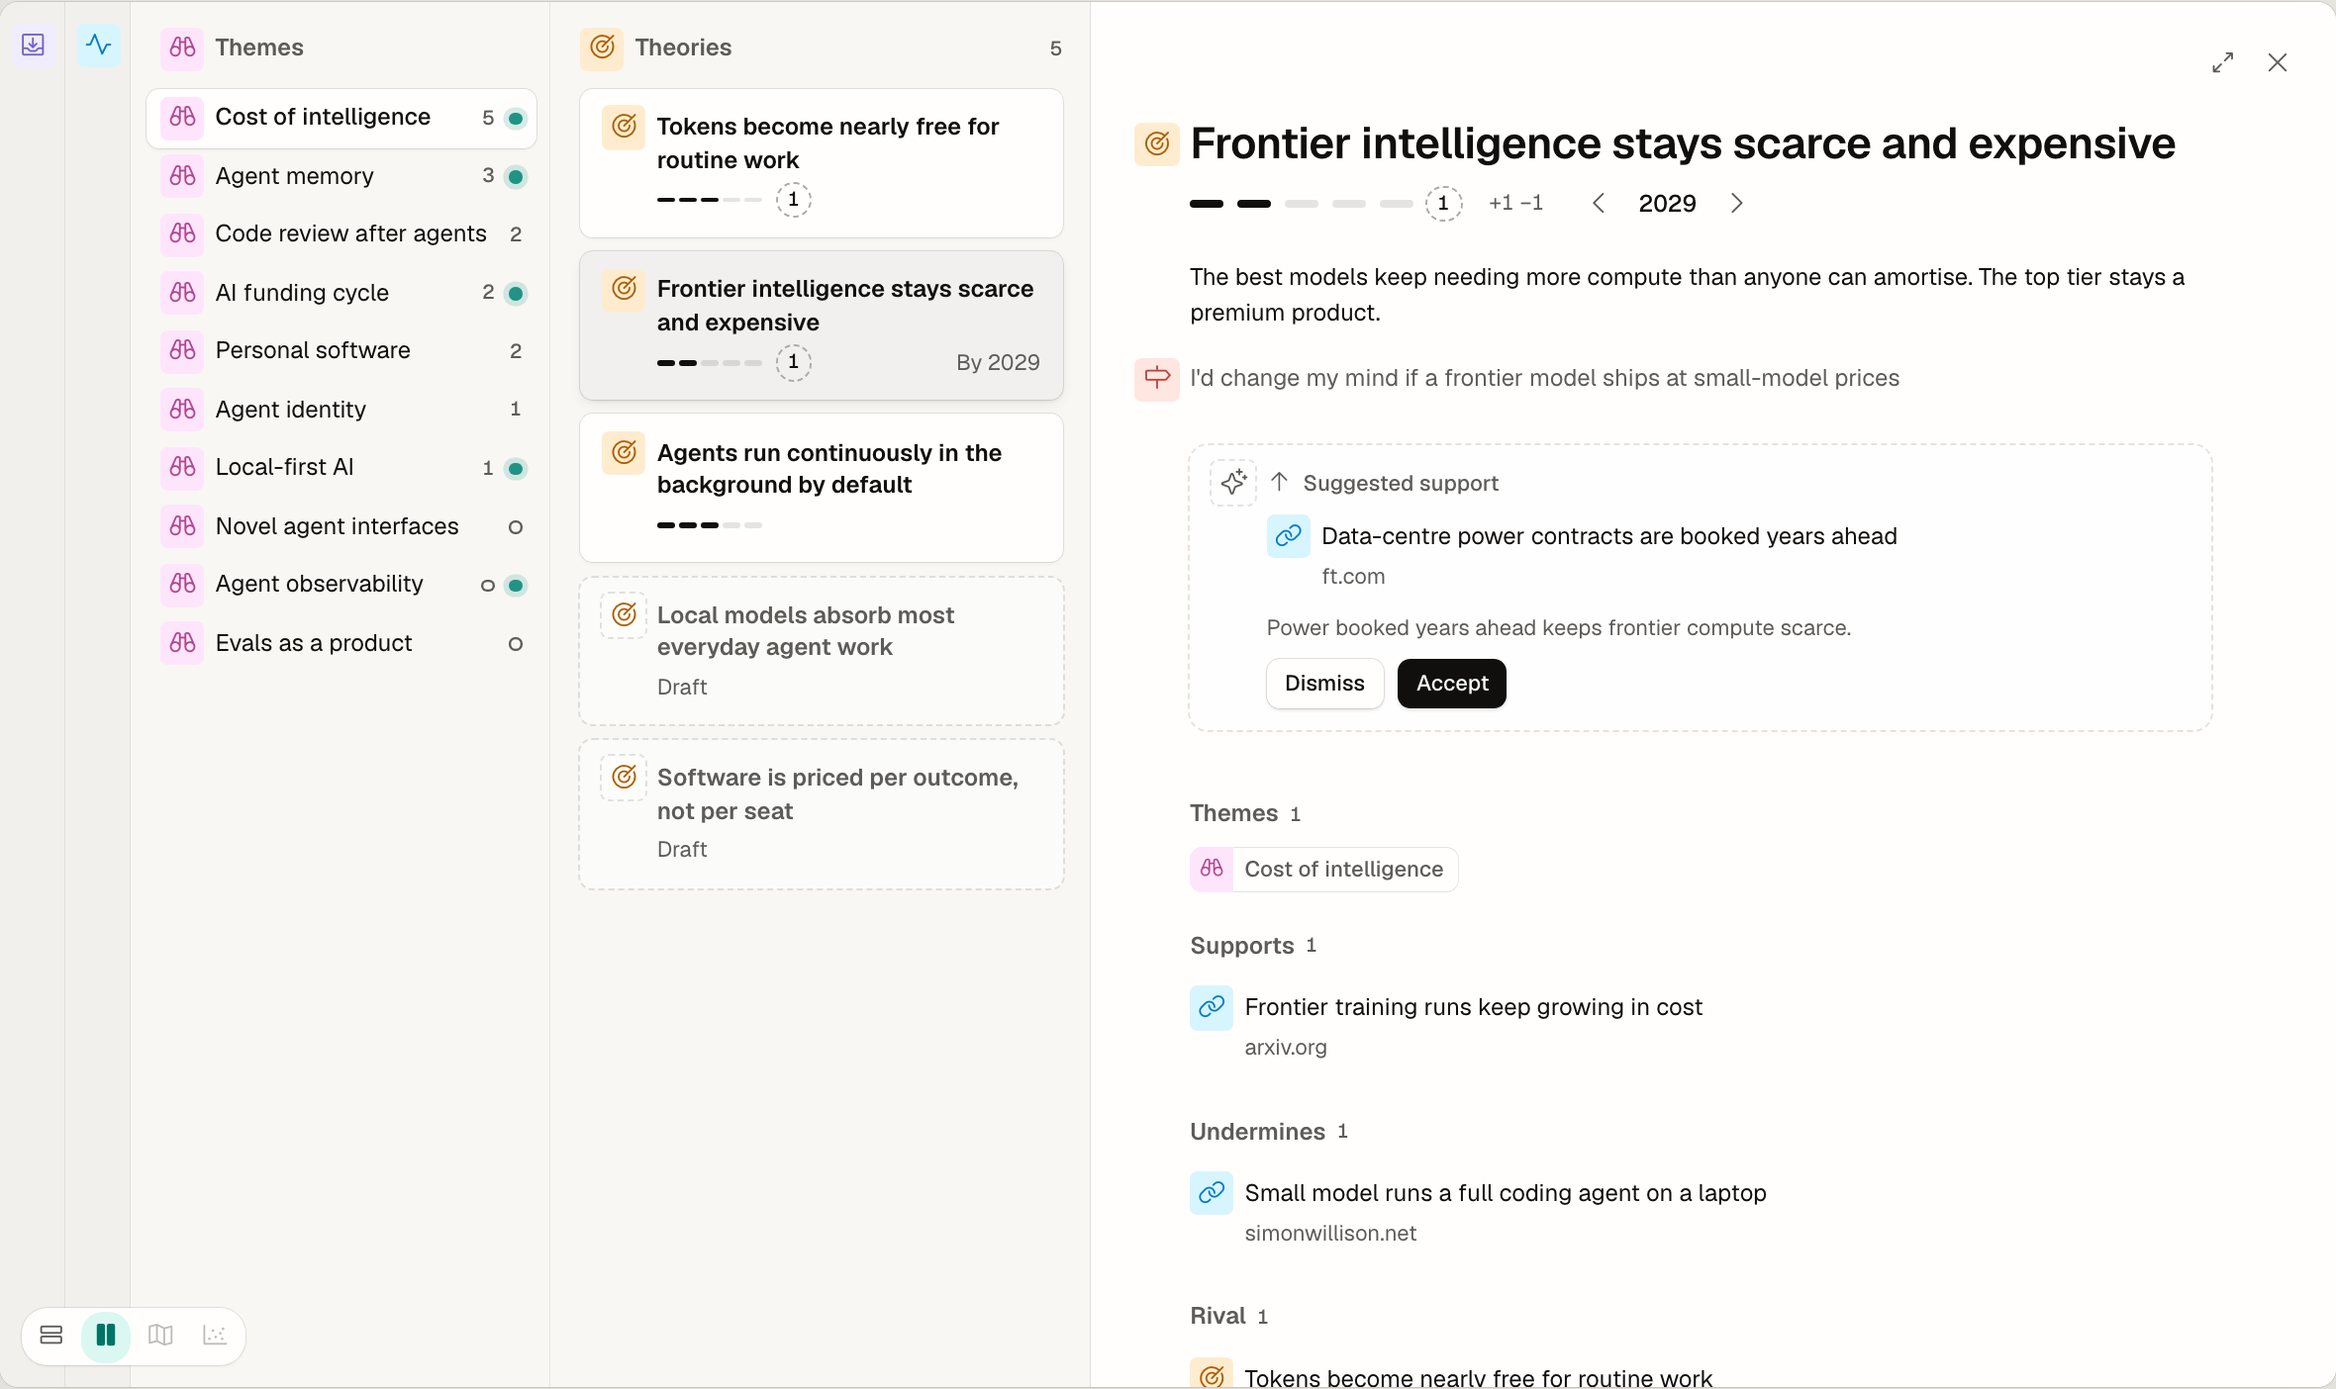
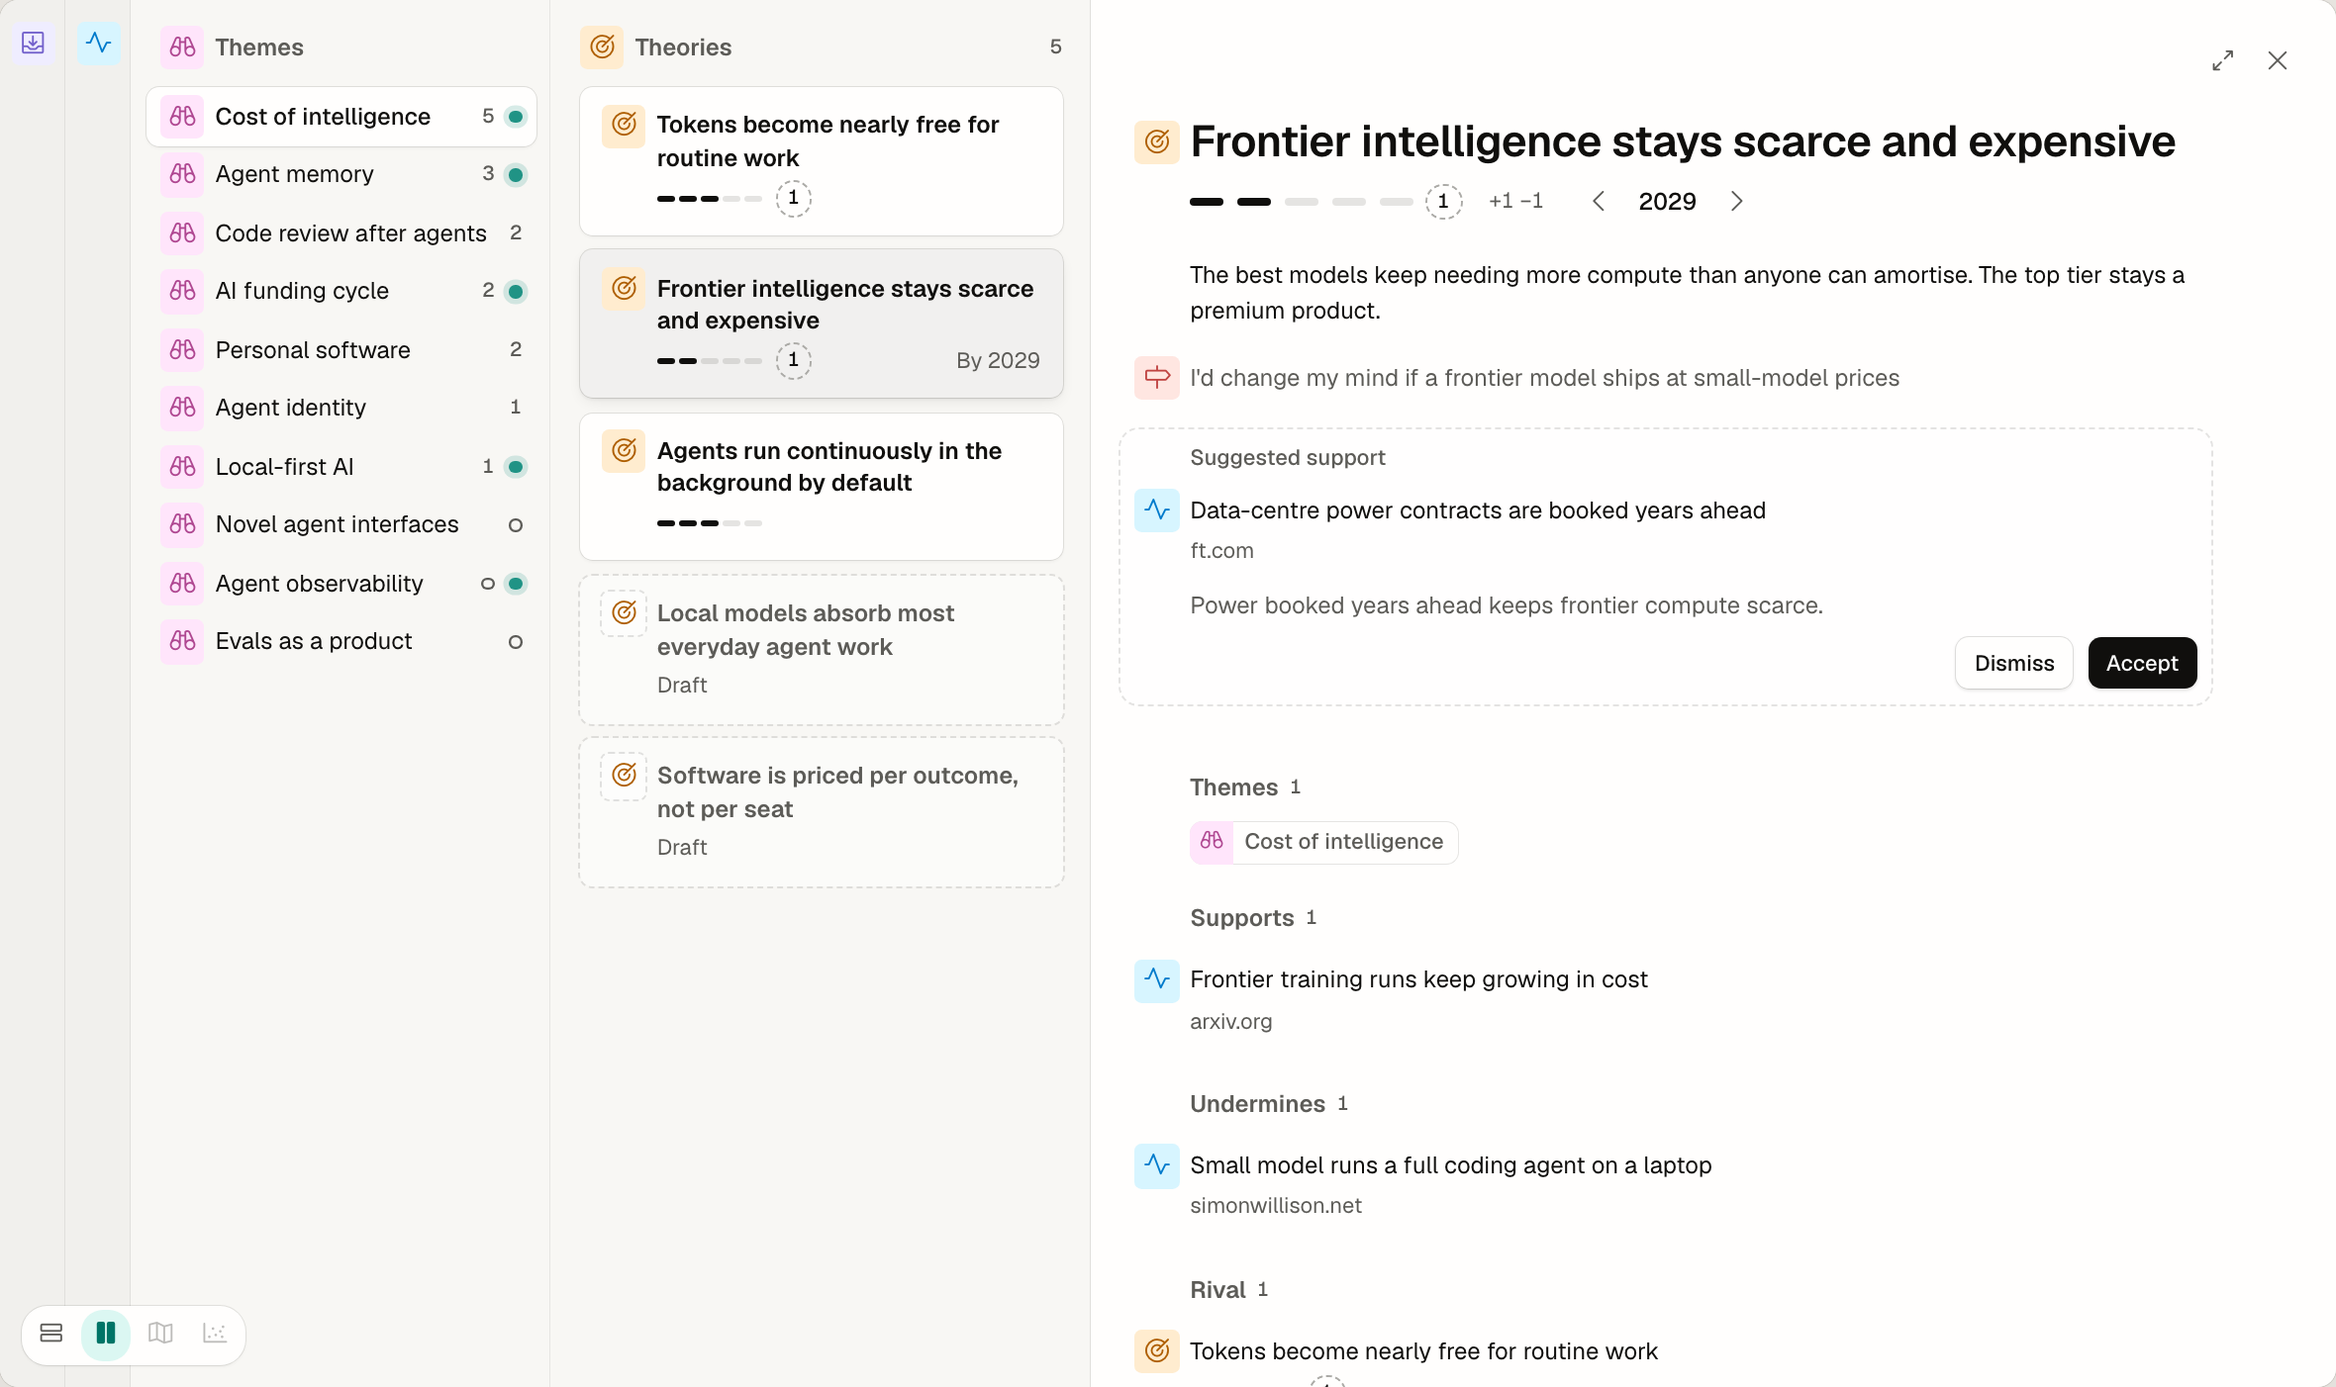
Grammar 06: one glyph column for attached objects

diff --git a/design/grammar/06-objects/objects.css b/design/grammar/06-objects/objects.css
@@ -13,6 +13,7 @@
 :is(.ob-scope, .ob-win) .g.sm { width: calc(var(--icon-label) + 4px); height: calc(var(--icon-label) + 4px); }
 :is(.ob-scope, .ob-win) .g.sm i { width: var(--icon-label); height: var(--icon-label); font-size: var(--icon-label); }
 :is(.ob-scope, .ob-win) .g[data-type="briefing"] { background: var(--tile-bg); color: var(--ink-2); }
+:root { --hang: calc(var(--tile) + var(--gap-icon)); }   /* the glyph column: tile + gap; text starts here */
 :is(.ob-scope, .ob-win) .g.draft { background: var(--draft-fill); outline: 1px dashed var(--hairline-strong); outline-offset: -1px; }
 
 /* Marks: one status slot, at the end of the key line */
@@ -111,17 +112,28 @@
 .ob-peek .ob-meta { margin-top: calc(var(--gap-item) * -1 + 2px); }
 .ob-pk-rel { display: grid; gap: 2px; padding-top: var(--gap-tight); }
 .ob-pk-rel > .ob-label { height: var(--control-sm); }
-.ob-pk-rel .ob-row { margin-inline: calc(var(--inset-row) * -1); }
+.ob-pk-rel .ob-row { margin-left: calc((var(--hang) + var(--inset-row)) * -1); margin-right: calc(var(--inset-row) * -1); }
 .ob-more { padding-top: 2px; font-size: var(--fs-label); color: var(--ink-2); }
 .ob-pk-foot { display: flex; justify-content: flex-end; }
 /* Attached objects, one line in a peek */
-/* Same 24 tile as every other row in the peek; text at body size beside it */
-.ob-attach { display: grid; grid-template-columns: var(--tile) minmax(0, 1fr); align-items: start; gap: var(--gap-icon); font-size: var(--fs-body); line-height: var(--lh-ui); color: var(--ink-2); }
+/* Attached lines hang their tile in the glyph column, like every row; text on the text edge */
+.ob-attach { margin-left: calc(var(--hang) * -1); display: grid; grid-template-columns: var(--tile) minmax(0, 1fr); align-items: start; gap: var(--gap-icon); font-size: var(--fs-body); line-height: var(--lh-ui); color: var(--ink-2); }
 .ob-attach > .g { margin-top: calc((var(--line-ui) - var(--tile)) / 2); }
 .ob-attach > span { display: -webkit-box; -webkit-box-orient: vertical; -webkit-line-clamp: 2; overflow: hidden; }
 .ob-attach b { font-weight: 500; color: var(--ink); }
 .ob-attach.tripped > span { color: var(--neg); }
 .ob-attach.tripped b { color: var(--neg); }
+.ob-attach.lg > .g { margin-top: calc((var(--line-prose) - var(--tile)) / 2); }
+.ob-attach.lg > .ob-prose { color: var(--ink-2); }
+/* The attached block: dashed (not yet mine); it bleeds into the glyph column so its row's tile sits in that column and every text starts on the text edge */
+.ob-block { display: grid; gap: var(--gap-tight); margin-left: calc((var(--hang) + var(--inset-row)) * -1); padding: var(--gap-item) var(--inset-row) var(--gap-item) 0; border-radius: var(--r-box); }
+.ob-block.sug { outline: 1px dashed var(--hairline-strong); outline-offset: -1px; background: var(--draft-fill); }
+.ob-block > :not(.ob-row) { margin-left: calc(var(--hang) + var(--inset-row)); }
+.ob-block > .ob-row { margin: 0; }
+.ob-blabel { display: flex; align-items: center; font: 500 var(--fs-label)/var(--lh-ui) var(--font); color: var(--ink-2); }
+.ob-blabel.neg { color: var(--neg); }
+.ob-block > .ob-decide { justify-content: flex-end; margin-top: var(--gap-tight); }
+.ob-peek .ob-block { padding-bottom: var(--gap-tight); }
 
 /* ═══ Rung 3: full (fills the main area; pane-level insets) ═══════════════════ */
 .ob-full { display: grid; align-content: start; gap: var(--gap-group); max-width: 760px; padding: var(--inset-pane-block) var(--inset-pane-inline) 48px; }
@@ -135,18 +147,20 @@
 .ob-full.draft .ob-title { color: var(--ink-2); }
 .ob-meta.lg { gap: var(--gap-tight) var(--gap-group); min-height: var(--control); }
 /* Rows in a full view keep a list's measure, so their status stays near their name */
-.ob-full .ob-rows, .ob-full .ob-sug, .ob-full .ob-decide-box { max-width: 560px; }
+.ob-full .ob-rows, .ob-full .ob-block { max-width: 560px; }
+.ob-full .ob-block { max-width: calc(560px + var(--hang) + var(--inset-row)); }
 .ob-body { display: grid; gap: var(--gap-group); min-width: 0; margin-left: calc(var(--tile) + var(--gap-icon)); }
 .ob-rels { display: grid; gap: var(--gap-group); margin-top: var(--gap-group); min-width: 0; }
 .ob-sec { display: grid; gap: var(--gap-tight); min-width: 0; }
 .ob-sh { display: flex; align-items: center; gap: var(--gap-icon); min-height: var(--control); font-weight: 600; color: var(--sechead-ink); }
 .ob-sh .ob-n { font-weight: 500; }
-.ob-sec .ob-rows .ob-row, .ob-reply .ob-row { margin-inline: calc(var(--inset-row) * -1); }
+/* Relation rows hang their tile in the full view's glyph column, so names share the body's text edge */
+.ob-sec .ob-rows .ob-row { margin-left: calc((var(--hang) + var(--inset-row)) * -1); margin-right: calc(var(--inset-row) * -1); }
 .ob-day { display: flex; align-items: center; height: var(--control-sm); margin-top: var(--gap-tight); font: 500 var(--fs-label)/1 var(--font); color: var(--ink-2); }
 .ob-day:first-child { margin-top: 0; }
 .ob-cards { display: grid; gap: var(--gap-item); grid-template-columns: repeat(auto-fill, minmax(208px, 1fr)); min-width: 0; }
-.ob-slot { display: flex; align-items: center; gap: var(--gap-icon); height: 40px; padding: 0 var(--inset-row); margin-inline: calc(var(--inset-row) * -1); border-radius: var(--r-control); color: var(--ink-2); font: 500 var(--fs-label)/1 var(--font); transition: background-color var(--t-hover) var(--ease-out); }
-.ob-slot i.ph { width: var(--icon-label); height: var(--icon-label); font-size: var(--icon-label); }
+.ob-slot { display: flex; align-items: center; gap: var(--gap-icon); height: 40px; padding: 0 var(--inset-row); margin-left: calc((var(--hang) + var(--inset-row)) * -1); margin-right: calc(var(--inset-row) * -1); border-radius: var(--r-control); color: var(--ink-2); font: 500 var(--fs-label)/1 var(--font); transition: background-color var(--t-hover) var(--ease-out); }
+.ob-slot i.ph { width: var(--tile); height: var(--icon-label); font-size: var(--icon-label); text-align: center; }
 .ob-slot:hover { background: var(--hover); color: var(--ink); }
 .ob-slot.sm { height: var(--chip-h); margin: 0; padding: 0 var(--inset-chip) 0 6px; }
 .ob-reply { display: grid; gap: var(--gap-tight); }
@@ -161,21 +175,9 @@
 .ob-step .v { min-width: 4ch; }
 
 /* Attached objects, a block in the full view */
-.ob-trip { padding-bottom: var(--gap-item); }
-.ob-trip .ob-prose { color: var(--ink-2); }
-.ob-trip > .ob-hang > .g { margin-top: calc((var(--line-prose) - var(--tile)) / 2); }
-.ob-trip { margin-left: calc((var(--tile) + var(--gap-icon)) * -1); }
-.ob-decide-box { display: grid; gap: var(--gap-item); }
-.ob-why { display: flex; align-items: center; gap: var(--gap-item); font-size: var(--fs-label); color: var(--neg); }
-.ob-decide-box .ob-row { margin-inline: calc(var(--inset-row) * -1); }
-.ob-decide { display: flex; gap: var(--gap-item); justify-content: flex-start; }
-.ob-sug { padding: var(--inset-card); border-radius: var(--r-box); outline: 1px dashed var(--hairline-strong); outline-offset: -1px; background: var(--draft-fill); }
-.ob-sug .ob-col { gap: var(--gap-tight); }
-.ob-sug-head { display: flex; align-items: center; min-height: var(--line-ui); }
-.ob-stance { display: inline-flex; align-items: center; gap: var(--gap-icon); font: 500 var(--fs-label)/1 var(--font); color: var(--ink-2); }
-.ob-stance i.ph { width: var(--icon-label); height: var(--icon-label); font-size: var(--icon-label); }
-.ob-sug .ob-row { margin-inline: calc(var(--inset-row) * -1); }
-.ob-why-t { margin: 0 0 var(--gap-tight); font-size: var(--fs-label); color: var(--ink-2); line-height: var(--lh-ui); }
+.ob-trip { display: grid; gap: var(--gap-item); }
+.ob-decide { display: flex; gap: var(--gap-item); }
+.ob-why-t { margin: 0; font-size: var(--fs-body); color: var(--ink-2); line-height: var(--lh-prose); max-width: var(--measure); }
 
 /* ═══ Windows ═════════════════════════════════════════════════════════════════ */
 .ob-host { min-width: 0; }

diff --git a/design/grammar/06-objects/objects.js b/design/grammar/06-objects/objects.js
@@ -183,21 +183,19 @@
     if (!o.trip) return "";
     const by = o.challenge && O[o.challenge];
     if (rung === "peek") return `<div class="ob-attach${by ? " tripped" : ""}">${tile("tripwire", ICON.tripwire)}<span>${by ? `Tripped by <b>${by.name}</b>` : o.trip}</span></div>`;
-    return `<div class="ob-trip${by ? " tripped" : ""}"><div class="ob-hang">${tile("tripwire", ICON.tripwire)}<div class="ob-col">
-        <p class="ob-prose">${o.trip}</p>
-        ${by ? `<div class="ob-decide-box"><div class="ob-why">${dot("neg", "Tripped")}<span>Tripped by a new signal. Accepting lowers confidence by one step.</span></div>${row(by, { omit: "when" })}
-          <div class="ob-decide"><button type="button" class="nv-btn secondary">Dismiss</button><button type="button" class="nv-btn primary">Accept</button></div></div>` : ""}
-      </div></div></div>`;
+    // One glyph column: the signpost hangs where the title's tile hangs; the sentence starts on the body's text edge
+    return `<div class="ob-trip${by ? " tripped" : ""}"><div class="ob-attach lg">${tile("tripwire", ICON.tripwire)}<p class="ob-prose">${o.trip}</p></div>
+        ${by ? `<div class="ob-block"><div class="ob-blabel neg">Tripped by a new signal</div>${row(by, { omit: "when" })}<p class="ob-why-t">Accepting lowers confidence by one step.</p>
+          <div class="ob-decide"><button type="button" class="nv-btn secondary">Dismiss</button><button type="button" class="nv-btn primary">Accept</button></div></div>` : ""}</div>`;
   };
   const sugBlock = (o, rung) => {
     const list = SUG[o.id] || []; if (!list.length) return "";
-    if (rung === "peek") return `<div class="ob-attach sug">${tile("suggestion", ICON.suggestion, "draft")}<span>${list.length === 1 ? `Suggested ${list[0].st === "+" ? "support" : "undermining"}: <b>${O[list[0].s].name}</b>` : `${list.length} suggestions`}</span></div>`;
-    return list.map(x => `<div class="ob-sug"><div class="ob-hang">${tile("suggestion", ICON.suggestion, "draft")}<div class="ob-col">
-        <div class="ob-sug-head"><span class="ob-stance"><i class="ph ph-arrow-${x.st === "+" ? "up" : "down"}" aria-hidden="true"></i>Suggested ${x.st === "+" ? "support" : "undermining"}</span></div>
-        ${row(O[x.s], { omit: "when" })}
-        <p class="ob-why-t">${x.why}</p>
-        <div class="ob-decide"><button type="button" class="nv-btn secondary">Dismiss</button><button type="button" class="nv-btn primary">Accept</button></div>
-      </div></div></div>`).join("");
+    // A dashed block (dashed = not yet mine): a label line, the proposed object as an ordinary row, then (full only) why and Dismiss | Accept.
+    // No Sparkle inside the block; Sparkle is only a suggestion's own tile where it is listed on its own.
+    const label = x => `<div class="ob-blabel">Suggested ${x.st === "+" ? "support" : "undermining"}</div>`;
+    if (rung === "peek") return `<div class="ob-block sug">${label(list[0])}${row(O[list[0].s], { omit: "when" })}${list.length > 1 ? `<span class="ob-more">${list.length - 1} more</span>` : ""}</div>`;
+    return list.map(x => `<div class="ob-block sug">${label(x)}${row(O[x.s], { omit: "when" })}<p class="ob-why-t">${x.why}</p>
+        <div class="ob-decide"><button type="button" class="nv-btn secondary">Dismiss</button><button type="button" class="nv-btn primary">Accept</button></div></div>`).join("");
   };
 
   /* ═══ 7. Relations, in order of importance per type ═══════════════════════════ */

diff --git a/design/grammar/06-objects/page.css b/design/grammar/06-objects/page.css
@@ -52,7 +52,7 @@ h3.sub { margin: 28px 0 8px; font-size: 14px; font-weight: 650; }
 .ob-cell-list .ob-row + .ob-row { margin-top: 2px; }
 .mx-stack { display: grid; gap: 12px; padding: 12px; border-radius: 10px; background: var(--ground); box-shadow: 0 0 0 0.5px rgb(0 0 0 / 0.08); }
 .ob-peek.static { position: relative; max-width: 100%; }
-.mx-sug { background: var(--surface); }
+.mx-sugwrap { padding: 12px 12px 12px 26px; border-radius: 10px; background: var(--surface); box-shadow: 0 0 0 0.5px rgb(0 0 0 / 0.1); }
 .ob-scaled { position: relative; display: block; width: 100%; height: 420px; overflow: hidden; border-radius: 10px; background: var(--surface); box-shadow: 0 0 0 0.5px rgb(0 0 0 / 0.1), 0 1px 2px rgb(0 0 0 / 0.04); cursor: zoom-in; padding: 0; }
 .ob-scaled-in { width: 760px; pointer-events: none; }
 .ob-scaled::after { content: ""; position: absolute; inset: auto 0 0; height: 56px; background: linear-gradient(transparent, var(--surface)); pointer-events: none; }
@@ -67,12 +67,12 @@ h3.sub { margin: 28px 0 8px; font-size: 14px; font-weight: 650; }
 .st-l { align-items: flex-start; color: var(--ink); }
 .st-c { min-width: 0; padding: 12px; box-shadow: inset 0 -0.5px 0 var(--hairline), inset 0.5px 0 0 var(--hairline); }
 .st-c > .ob-cell-list { box-shadow: none; padding: 0; background: transparent; }
-.st-full .ob-full { padding: 0; gap: var(--gap-item); }
+.st-full .ob-full { padding: 0 0 0 var(--inset-row); gap: var(--gap-item); }
 .st-full .ob-title { font-size: var(--fs-title); }
 .st-full .ob-trip { display: none; }
 .st-full .ob-rels, .st-full .ob-body:empty { display: none; }
-.st-rel { display: grid; gap: var(--gap-tight); padding-left: 30px; }
-.st-rel .ob-row { margin-inline: calc(var(--inset-row) * -1); }
+.st-rel { display: grid; gap: var(--gap-tight); padding-left: 38px; }
+.st-rel .ob-sec .ob-rows .ob-row, .st-rel .ob-row { margin-left: -38px; margin-right: -8px; }
 
 /* ── Before and after ── */
 .ba-grid { display: grid; gap: 28px; }

diff --git a/design/grammar/06-objects/page.js b/design/grammar/06-objects/page.js
@@ -35,7 +35,7 @@
         <div class="mx-c" data-rung="Preview: list row"><p class="mx-note">A dashed count in the host's status slot</p>${list(row(t1, { act: "none" }))}</div>
         <div class="mx-c" data-rung="Preview: card and chip"><p class="mx-note">The host's card carries the count</p><div class="ob-scope ctl mx-stack">${card(t1, { act: "none" })}</div></div>
         <div class="mx-c" data-rung="Peek"><p class="mx-note">One line inside the host's peek</p><div class="ob-scope ctl">${peek(t1).replace('class="ob-peek"', 'class="ob-peek static"')}</div></div>
-        <div class="mx-c" data-rung="Full"><p class="mx-note">A dashed block: stance, the signal, why, Dismiss | Accept</p><div class="ob-scope ctl">${A.sugBlock(t1, "full").replace('class="ob-sug"', 'class="ob-sug mx-sug"')}</div></div>`;
+        <div class="mx-c" data-rung="Full"><p class="mx-note">A dashed block: what it proposes, the signal as a row, why, Dismiss | Accept</p><div class="ob-scope ctl"><div class="mx-sugwrap ob-full"><div class="ob-body">${A.sugBlock(t1, "full")}</div></div></div></div>`;
     matrix.innerHTML = head + TYPES.map(typeRow).join("") + attached;
   }
 
